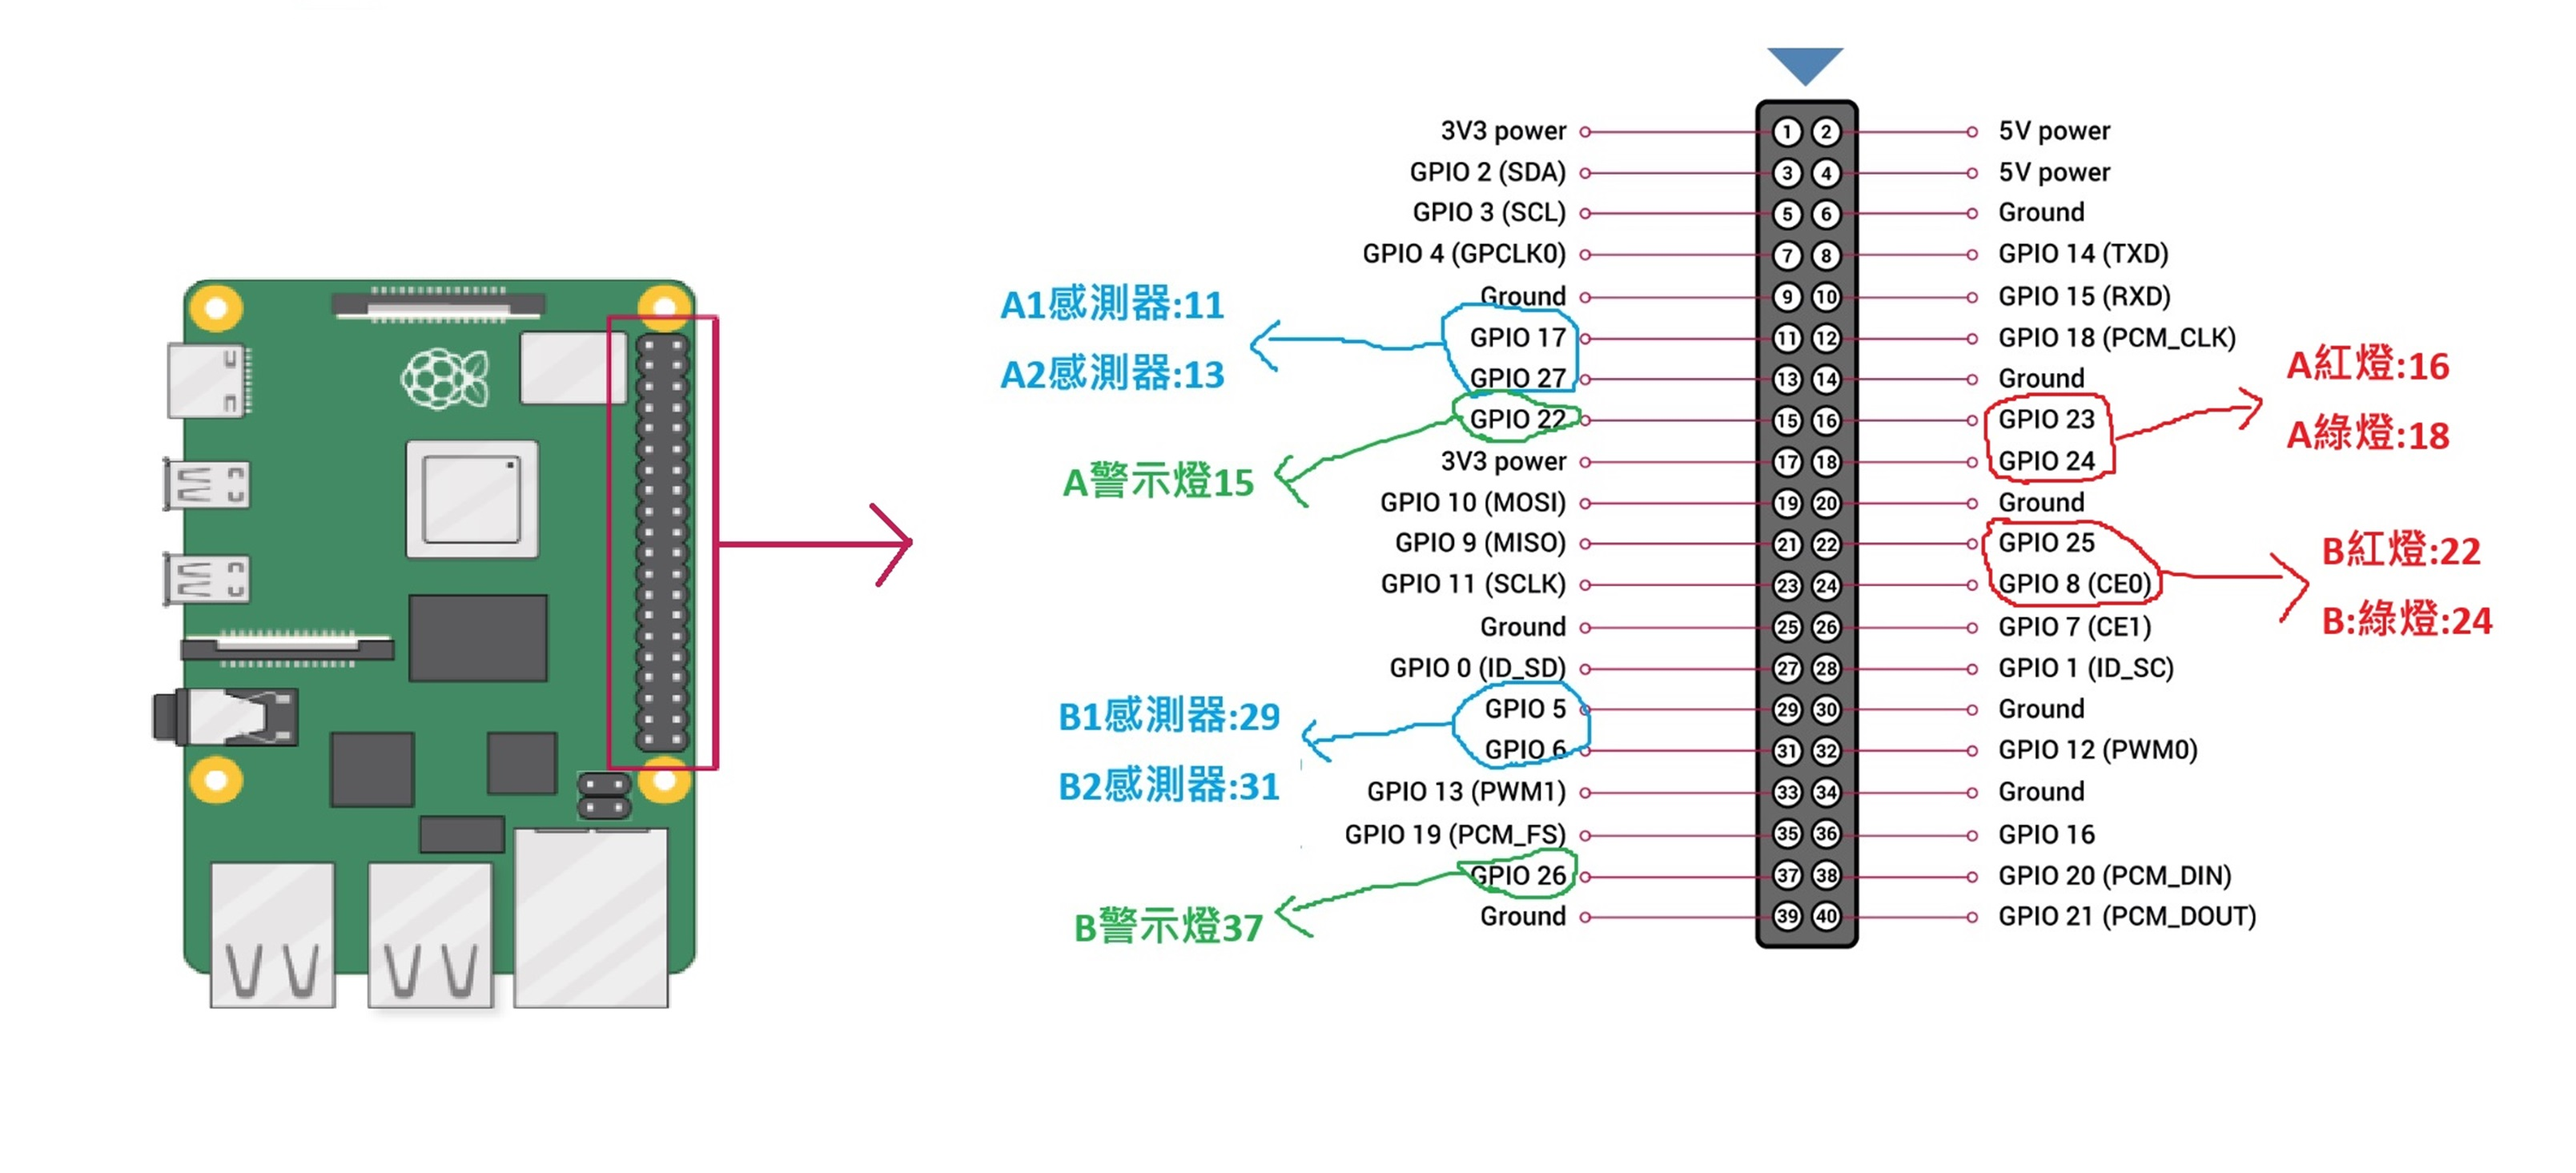
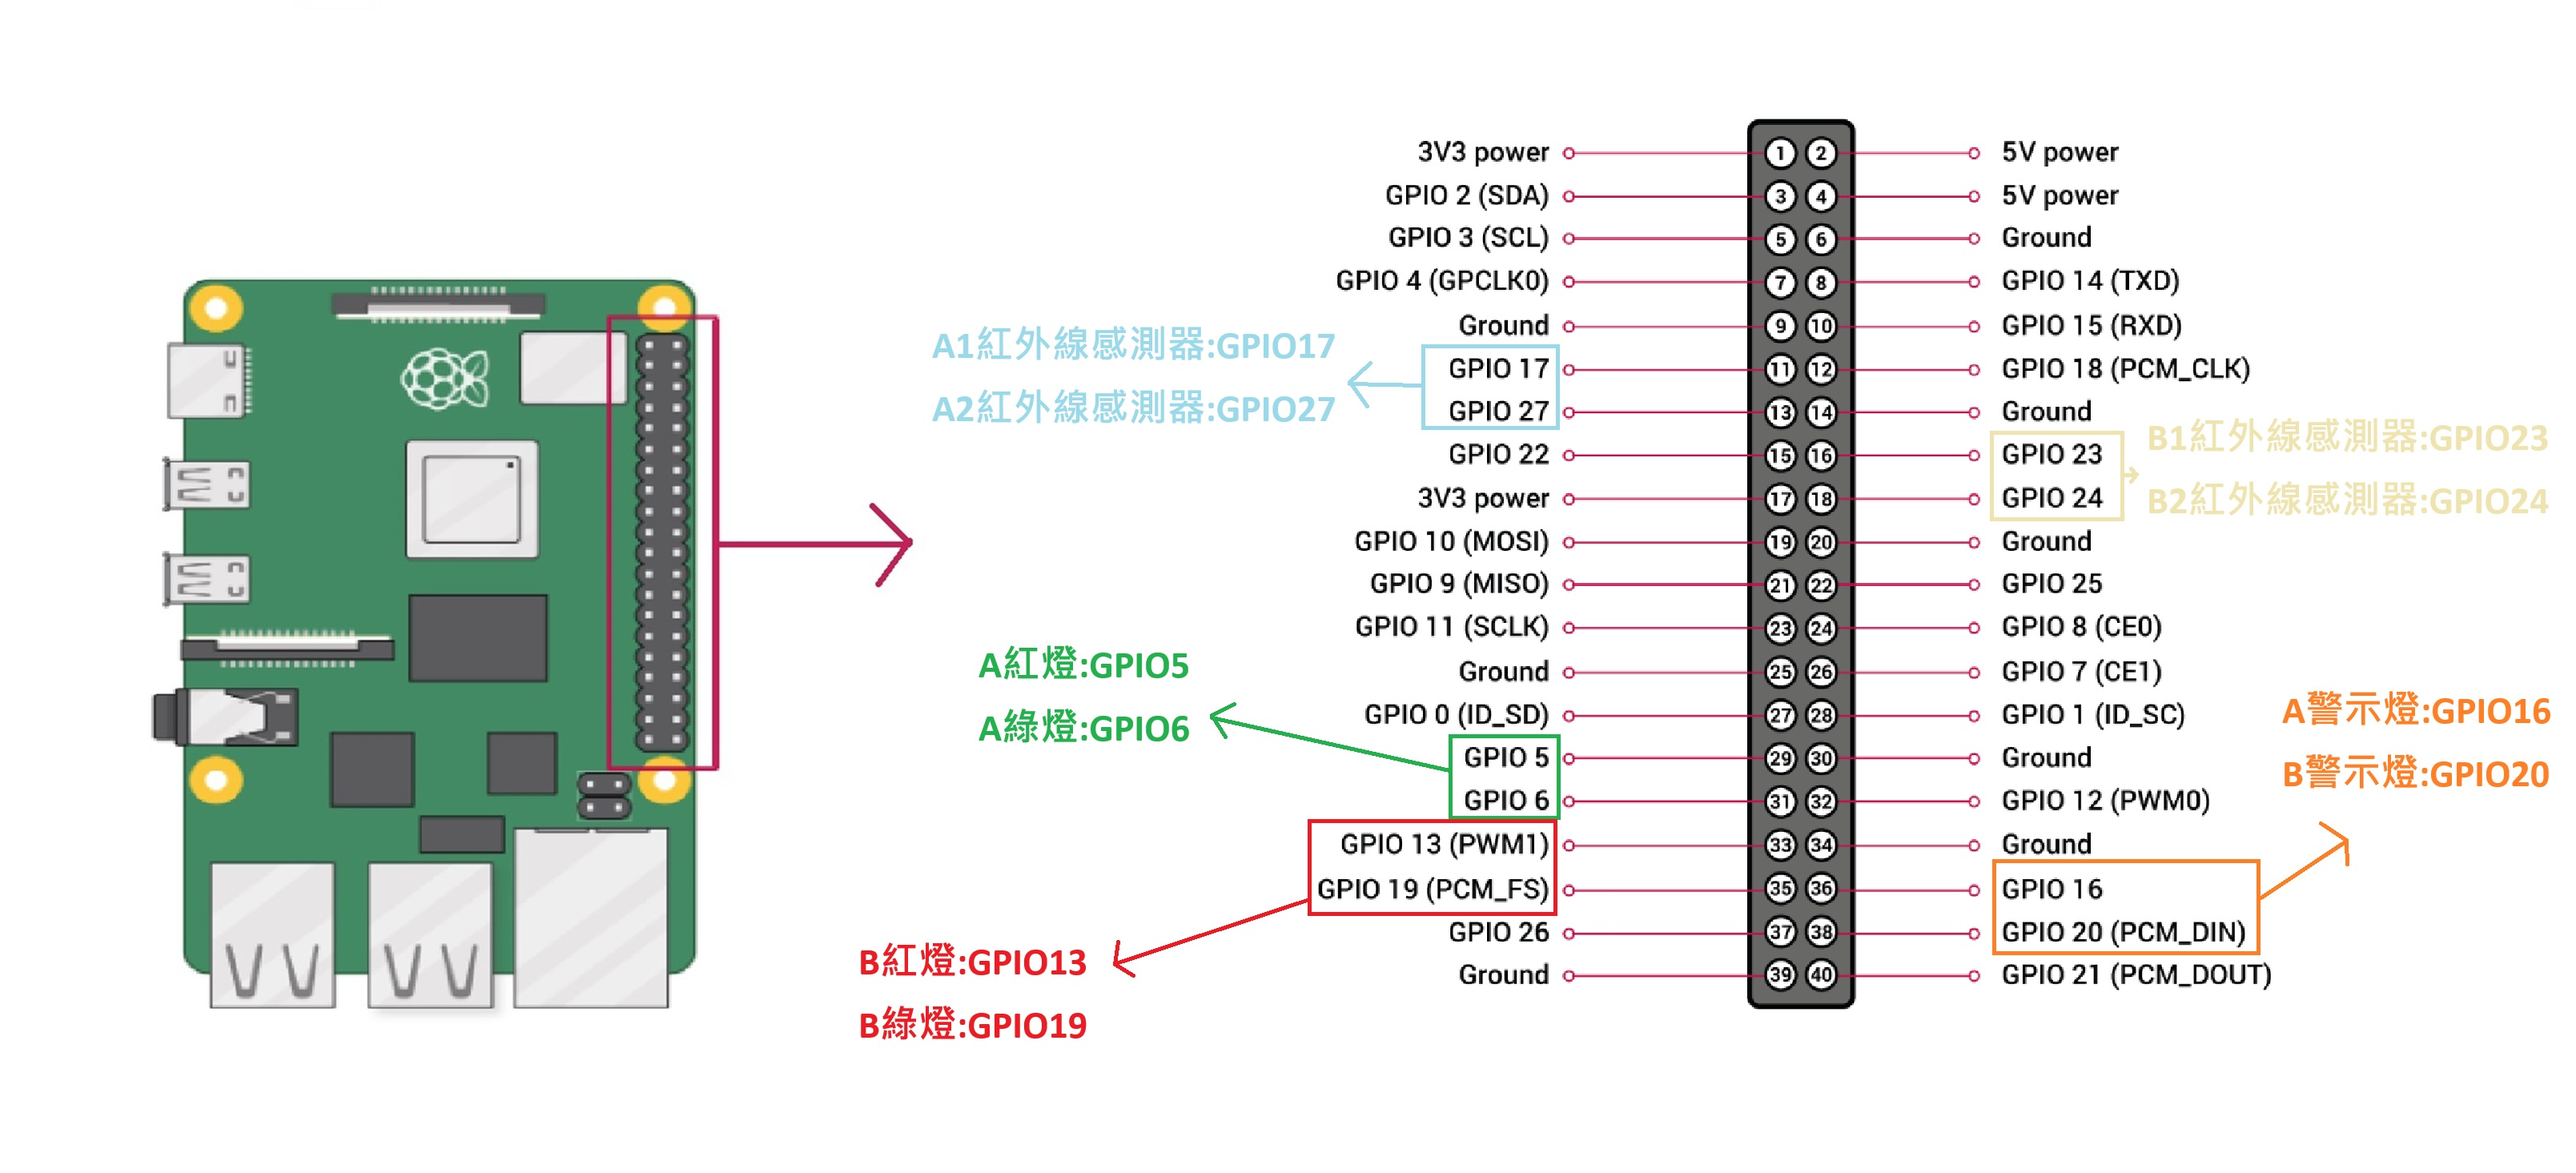
Bugfix: vehicle entry/exit logic
樹梅派腳位修改:
將樹梅對應腳位改至RPi Relay Board (B)對應腳位

進出邏輯修復:
增加laneVehicleCount計算車道內車輛總數，解決會車時的系統bug
增加laneVehicleCountLock，避免在進入與退出流程的執行緒中同時修改laneVehicleCount
增加processlock，避免在同一個事件中修改兩次laneVehicleCount

diff --git a/紅外線感應器/code/main.py b/紅外線感應器/code/main.py
@@ -1,3 +1,5 @@
+#!/usr/bin/python3
+
 import RPi.GPIO as GPIO
 import threading
 from threading import Timer
@@ -18,9 +20,10 @@ class EntryFSM:
         self.oddTimer.cancel()
 
     #進入流程處理
-    def process(self,pin):
+    def process(self,pin,processlock):
         self.isRunning=True
-        
+        global laneVehicleCount
+
         if(self.inState=='idle'):
             if(pin==A1_sensor):
                 self.inState='A1_first'                       
@@ -33,6 +36,8 @@ class EntryFSM:
         elif(self.inState=='A1_first'):
             if(pin==A2_sensor):
                 self.onway+=1
+                with laneVehicleCountLock:
+                    laneVehicleCount+=1
                 self.inState='idle'
                 flash_control(B_WarningLight,True)
                 traffic_control('B','Red')
@@ -42,17 +47,19 @@ class EntryFSM:
         elif(self.inState=='A2_first'):
             if(pin==A1_sensor):
                 self.inState='idle'
-                if(self.onway>0):
+                if(self.onway>0 and self.onway==laneVehicleCount and not(processlock[0])):
                     self.onway-=1
+                    with laneVehicleCountLock:
+                        laneVehicleCount-=1
+                        processlock[0]=True
                 self.beginTimer.cancel()
 
         if(self.outState=='idle'):
             if(pin==B2_sensor):
-                if(self.onway>0):
-                    self.outState='B2_Entry'
-                    self.lastTimer.cancel()
-                    self.lastTimer=Timer(thirdTimer,self.reset)
-                    self.lastTimer.start()
+                self.outState='B2_Entry'
+                self.lastTimer.cancel()
+                self.lastTimer=Timer(thirdTimer,self.reset)
+                self.lastTimer.start()
             elif(pin==B1_sensor):
                 self.outState='B1_Entry'
                 self.oddTimer=Timer(firstTimer,self.reset,args=('out',))     
@@ -60,7 +67,11 @@ class EntryFSM:
         elif(self.outState=='B2_Entry'):
             if(pin==B1_sensor):
                 self.outState='idle'
-                self.onway-=1
+                if(self.onway>0 and laneVehicleCount>0 and not(processlock[0])):
+                    self.onway-=1
+                    with laneVehicleCountLock:
+                        laneVehicleCount-=1
+                        processlock[0]=True
                 if(self.onway<=0):
                     self.onway=0
                     flash_control(B_WarningLight,False)
@@ -72,12 +83,16 @@ class EntryFSM:
                 self.oddTimer.cancel()
 
         self.isRunning=False
-
+        
     #重置狀態
     def reset(self,part='All'):
+        global laneVehicleCount
+
         if(part=='All'):
             self.inState='idle'
             self.outState='idle'
+            with laneVehicleCountLock:
+                laneVehicleCount-=self.onway
             self.onway=0
             flash_control(B_WarningLight,False)
             traffic_control('B','Green')
@@ -101,9 +116,10 @@ class ExitFSM:
         self.oddTimer.cancel()
 
     #退出流程處理
-    def process(self,pin):
+    def process(self,pin,processlock):
         self.isRunning=True
-        
+        global laneVehicleCount
+
         if(self.inState=='idle'):
             if(pin==B1_sensor):
                 self.inState='B1_first'                       
@@ -116,6 +132,8 @@ class ExitFSM:
         elif(self.inState=='B1_first'):
             if(pin==B2_sensor):
                 self.onway+=1
+                with laneVehicleCountLock:
+                    laneVehicleCount+=1
                 self.inState='idle'
                 flash_control(A_WarningLight,True)
                 traffic_control('A','Red')
@@ -125,17 +143,19 @@ class ExitFSM:
         elif(self.inState=='B2_first'):
             if(pin==B1_sensor):
                 self.inState='idle'
-                if(self.onway>0):
+                if(self.onway>0 and self.onway==laneVehicleCount and not(processlock[0])):
                     self.onway-=1
+                    with laneVehicleCountLock:
+                        laneVehicleCount-=1
+                        processlock[0]=True
                 self.beginTimer.cancel()
 
         if(self.outState=='idle'):
             if(pin==A2_sensor):
-                if(self.onway>0):
-                    self.outState='A2_Entry'
-                    self.lastTimer.cancel()
-                    self.lastTimer=Timer(thirdTimer,self.reset)
-                    self.lastTimer.start()
+                self.outState='A2_Entry'
+                self.lastTimer.cancel()
+                self.lastTimer=Timer(thirdTimer,self.reset)
+                self.lastTimer.start()
             elif(pin==A1_sensor):
                 self.outState='A1_Entry'
                 self.oddTimer=Timer(firstTimer,self.reset,args=('out',))     
@@ -143,7 +163,11 @@ class ExitFSM:
         elif(self.outState=='A2_Entry'):
             if(pin==A1_sensor):
                 self.outState='idle'
-                self.onway-=1
+                if(self.onway>0 and laneVehicleCount>0 and not(processlock[0])):
+                    self.onway-=1
+                    with laneVehicleCountLock:
+                        laneVehicleCount-=1
+                        processlock[0]=True
                 if(self.onway<=0):
                     self.onway=0
                     flash_control(A_WarningLight,False)
@@ -158,9 +182,13 @@ class ExitFSM:
 
     #重置狀態
     def reset(self,part='All'):
+        global laneVehicleCount
+
         if(part=='All'):
             self.inState='idle'
             self.outState='idle'
+            with laneVehicleCountLock:
+                laneVehicleCount-=self.onway
             self.onway=0
             flash_control(A_WarningLight,False)
             traffic_control('A','Green')
@@ -168,23 +196,27 @@ class ExitFSM:
             self.inState='idle'
         elif(part=='out'):
             self.outState='idle'
-    
+
 #腳位定義
 A1_sensor=11
 A2_sensor=13
-A_WarningLight=15
-A_RedLight=16
-A_GreenLight=18
-B1_sensor=29
-B2_sensor=31
-B_WarningLight=37
-B_RedLight=22
-B_GreenLight=24
+A_WarningLight=36
+A_RedLight=29
+A_GreenLight=31
+B1_sensor=16
+B2_sensor=18
+B_WarningLight=38
+B_RedLight=33
+B_GreenLight=35
 
 #計時器秒數設定
 firstTimer=5
 secondTimer=30
 thirdTimer=30
+
+#紀錄車道內數量
+laneVehicleCount=0
+laneVehicleCountLock = threading.Lock()
 
 #進出流程
 Entry=EntryFSM()
@@ -229,17 +261,18 @@ def setup():
 
 #按鈕中斷執行程序
 def SensorCallBack(pin):
+    processlock=[False]
 
     #建立進入流程執行緒
     if(not(Entry.isRunning)):
-        threadEntry=threading.Thread(target=Entry.process, args=(pin,))
+        threadEntry=threading.Thread(target=Entry.process, args=(pin,processlock,))
         threadEntry.start()
         
     #建立退出流程執行緒
     if(not(Exit.isRunning)):
-       threadExit=threading.Thread(target=Exit.process, args=(pin,))
+       threadExit=threading.Thread(target=Exit.process, args=(pin,processlock,))
        threadExit.start()
-
+    
 #=====警示燈控制=====
 def flash_control(Light,activ=False):
     if(activ):
